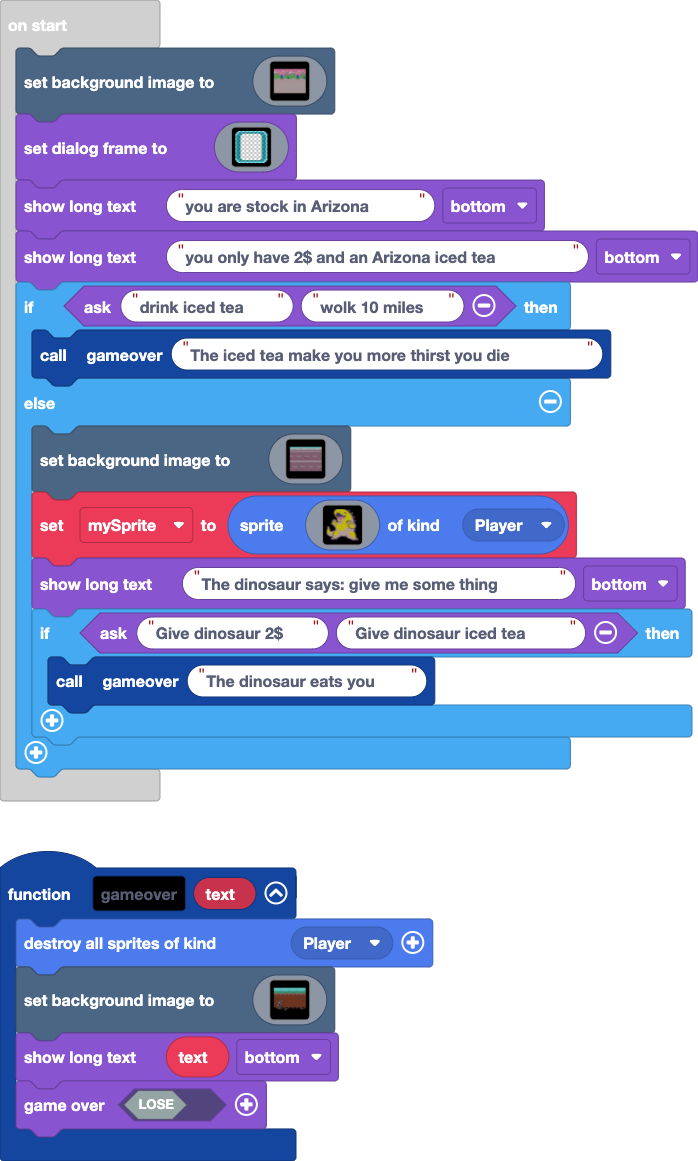
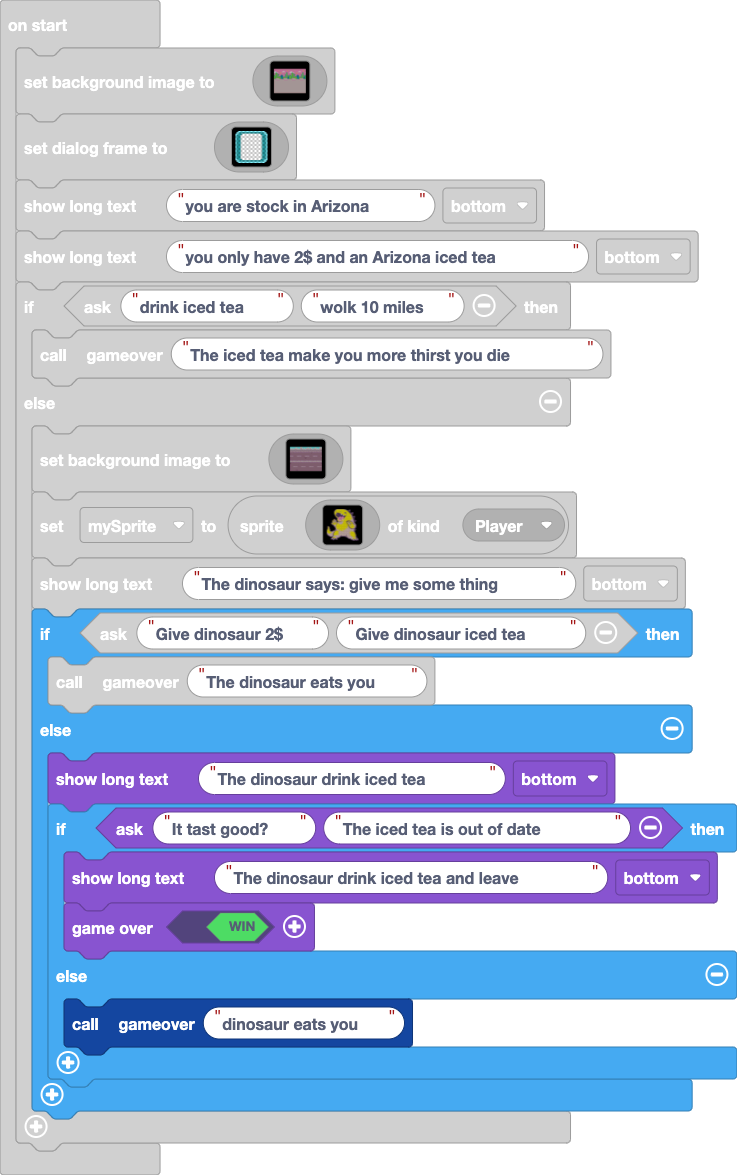
finish the game

diff --git a/main.ts b/main.ts
@@ -482,5 +482,13 @@ if (game.ask("drink iced tea", "wolk 10 miles")) {
     game.showLongText("The dinosaur says: give me some thing", DialogLayout.Bottom)
     if (game.ask("Give dinosaur 2$", "Give dinosaur iced tea")) {
         gameover("The dinosaur eats you")
+    } else {
+        game.showLongText("The dinosaur drink iced tea ", DialogLayout.Bottom)
+        if (game.ask("It tast good?", "The iced tea is out of date ")) {
+            game.showLongText("The dinosaur drink iced tea and leave", DialogLayout.Bottom)
+            game.over(true)
+        } else {
+            gameover("dinosaur eats you")
+        }
     }
 }
